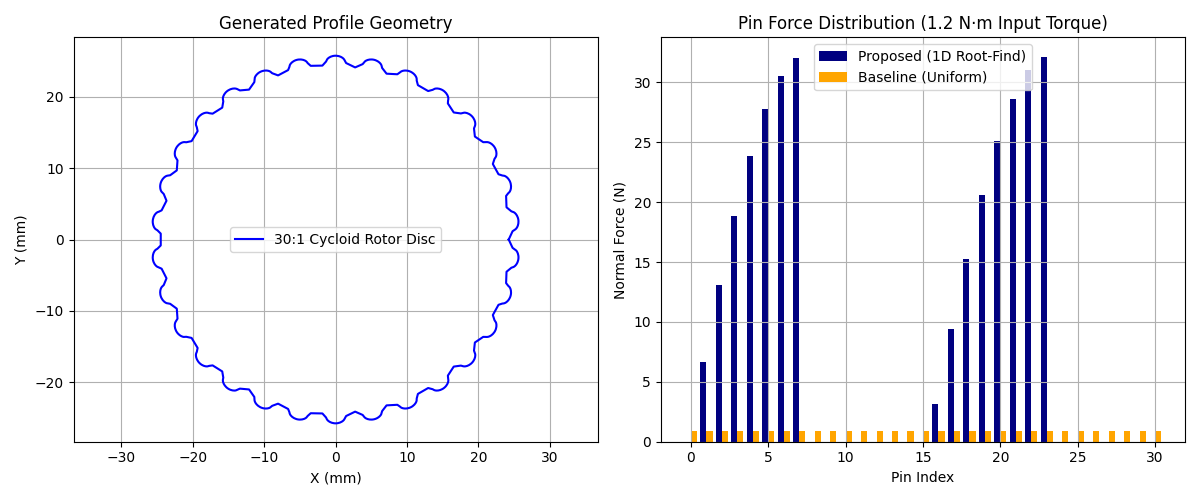
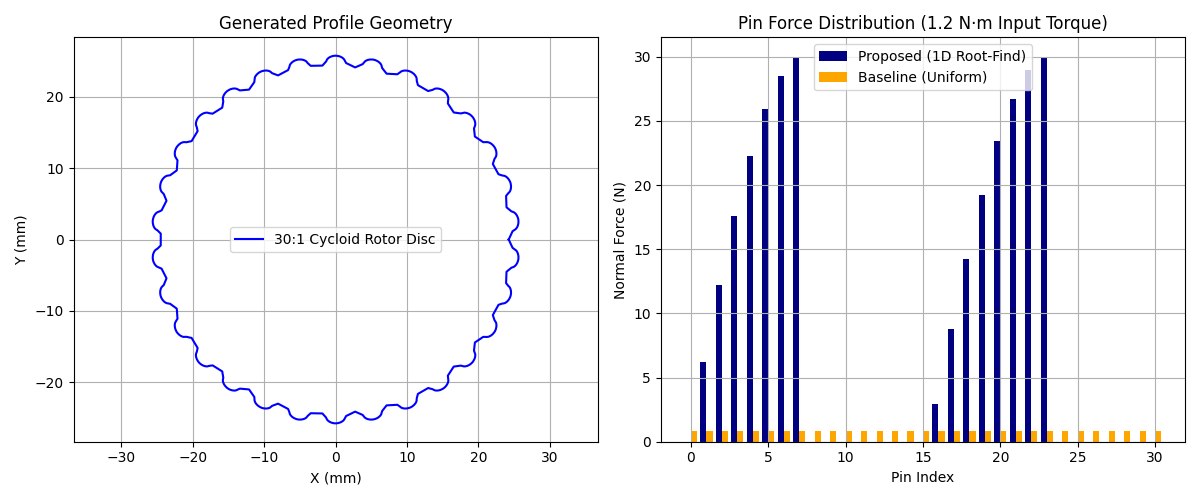
Updated README to include friction.py

diff --git a/tests/test_friction.py b/tests/test_friction.py
@@ -1,0 +1,35 @@
+import numpy as np
+import pytest
+
+from src.friction import estimate_output_performance, frictional_power_loss
+
+
+def test_frictional_power_loss_scalar_speed():
+    loss = frictional_power_loss(np.array([10.0, 20.0]), 0.1, 0.02)
+    assert np.isclose(loss, 0.06)
+
+
+def test_frictional_power_loss_per_contact_speeds():
+    loss = frictional_power_loss(np.array([10.0, 20.0]), 0.1, np.array([0.01, 0.02]))
+    assert np.isclose(loss, 0.05)
+
+
+def test_frictional_power_loss_invalid_inputs():
+    with pytest.raises(ValueError):
+        frictional_power_loss(np.array([-1.0]), 0.1, 0.01)
+    with pytest.raises(ValueError):
+        frictional_power_loss(np.array([1.0]), -0.1, 0.01)
+    with pytest.raises(ValueError):
+        frictional_power_loss(np.array([1.0, 2.0]), 0.1, np.array([0.01, 0.02, 0.03]))
+
+
+def test_output_performance_power_balance():
+    result = estimate_output_performance(1.0, 60.0, 30.0, 1.0)
+    assert np.isclose(result["input_power_w"], 2 * np.pi)
+    assert np.isclose(result["estimated_efficiency"], (2 * np.pi - 1) / (2 * np.pi))
+    assert result["estimated_output_torque_nm"] < result["ideal_output_torque_nm"]
+
+
+def test_loss_must_be_less_than_input_power():
+    with pytest.raises(ValueError):
+        estimate_output_performance(1.0, 60.0, 30.0, 10.0)

diff --git a/run_analysis.py b/run_analysis.py
@@ -19,7 +19,7 @@ def run_full_analysis() -> None:
     pitch_r = 0.053/2  # 53 mm pitch radius
     pin_r = 0.0015  # 3 mm pin diameter
     ecc = 0.00075  # 0.75 mm eccentricity
-    torque = 0.75  # 1.2 N*m torque load
+    torque = 0.7  # 1.2 N*m torque load
     disc_thickness = 0.004  # 4 mm disc thickness
 
     coefficient_of_friction = 0.1
